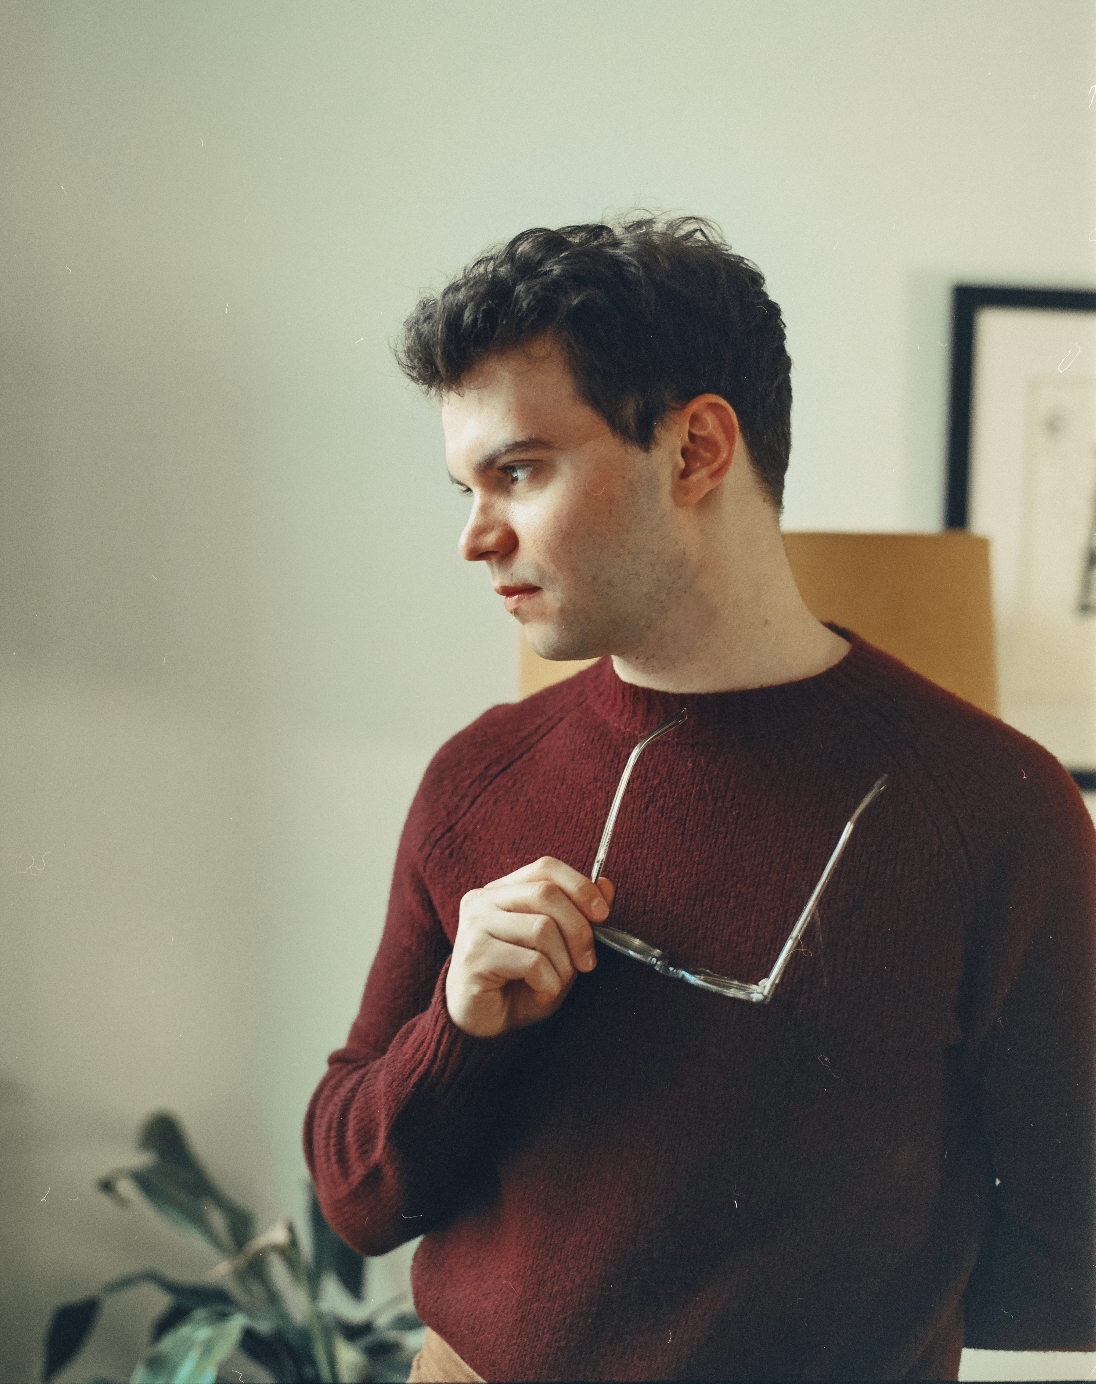
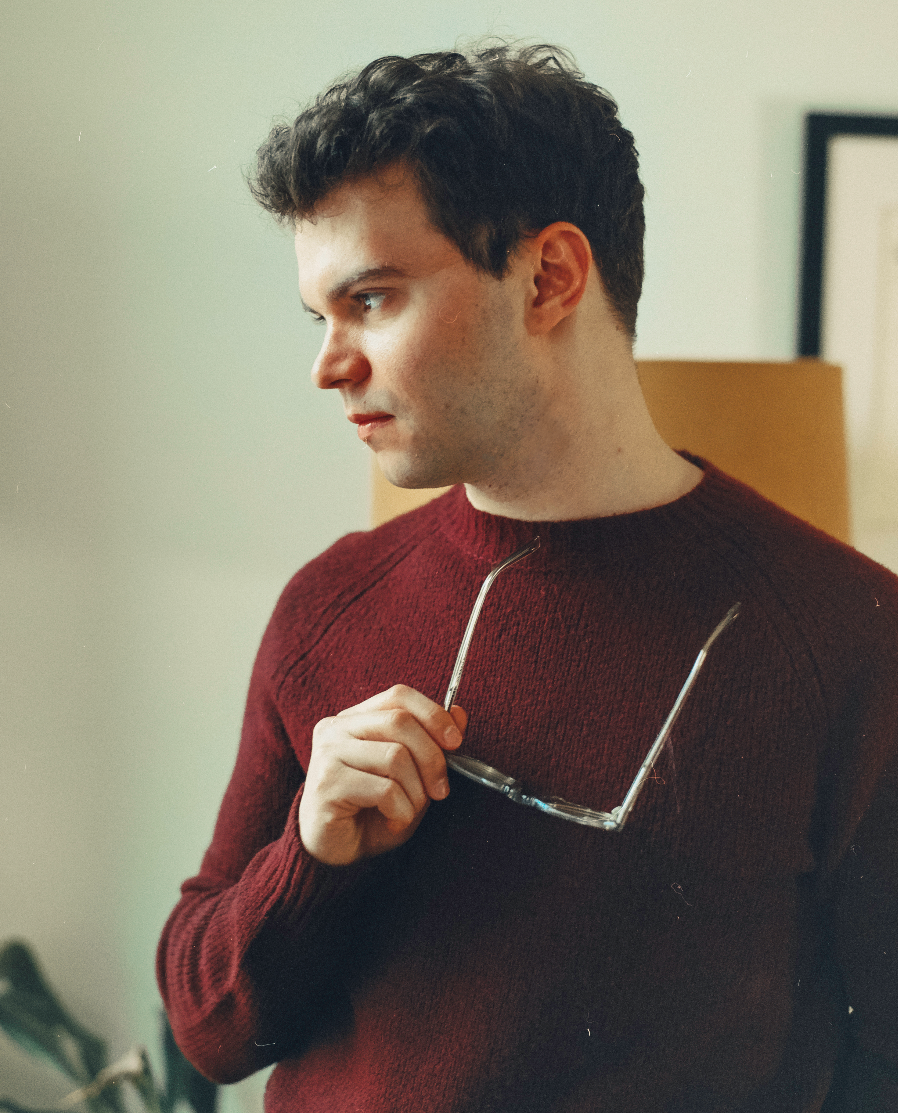
Add mobile styling.

diff --git a/article-list.js b/article-list.js
@@ -35,6 +35,7 @@ articles = [
     {
         link: "https://www.vanityfair.com/style/2018/09/jane-anderson-glenn-close-mother-of-the-maid",
         title: "The Writer Behind Both of Glenn Close’s “Breathtaking” Performances This Year",
+        imageAlign: 'left',
         imageLink: "https://media.vanityfair.com/photos/5baa6a7dd23564139e45cd09/master/w_2560%2Cc_limit/Embed-Jane-Anderson-Glenn-Close.png",
         outlet: "Vanity Fair",
         category: "Film",
@@ -59,6 +60,7 @@ articles = [
     {
         link: "https://www.them.us/story/three-tv-actors-who-queered-masculinity-sex-and-the-city-girls-friends",
         title: "Remembering Three TV Actors Who Queered Masculinity",
+        imageAlign: 'left',
         imageLink: "https://media.them.us/photos/619c033f7a8211c3e6797f17/master/w_2560%2Cc_limit/tv-gay.jpg",
         outlet: "them",
         category: "TV",
@@ -146,7 +148,7 @@ articles = [
     },
     {
         link: "https://www.them.us/story/the-queer-internet-and-my-church",
-        title: `You Are Very Welcome Here": The Queer Internet, and My Church`,
+        title: `"You Are Very Welcome Here": The Queer Internet, and My Church`,
         imageLink: "https://media.them.us/photos/5ec6d6e7d00096d0eb324157/master/w_2560%2Cc_limit/queer-internet-church.jpg",
         outlet: "them",
         category: "Faith",
@@ -172,43 +174,43 @@ articles = [
 ]
 
 outletLogos = {
-    "American Theater": "american-theatre.bmp",
-    "Backstage": "backstage.png",
-    "Boston College": "boston-college-magazine.png",
-    "The Brooklyn Rail": "brooklyn-rail.png",
-    "Brooklyn Magazine": "brooklyn-magazine.svg",
-    "Culture Bot": "culturebot-maximum-performance.png",
-    "EDGE": "edge-media-network.png",
-    "Greenpointers": "greenpointers.png",
-    "HowlRound": "howlround-theatre-commons.svg",
-    "Holy Cross": "college-of-the-holy-cross.png",
-    "Into": "into.png",
-    "NewNowNext": "newnownext.jpg",
-    "Observer": "observer.png",
-    "Playbill": "playbill.png",
-    "them": "them.png",
-    "Travel and Leisure": "travel-and-leisure.png",
-    "Vanity Fair": "vanity-fair.png",
     "The Washington Post": "washington-post.png",
+    "Observer": "observer.png",
+    "Backstage": "backstage.png",
+    "Brooklyn Magazine": "brooklyn-magazine.svg",
+    "HowlRound": "howlround-theatre-commons.svg",
+    "NewNowNext": "newnownext.jpg",
+    "Vanity Fair": "vanity-fair.png",
+    "them": "them.png",
+    "The Brooklyn Rail": "brooklyn-rail.png",
+    "Boston College": "boston-college-magazine.png",
+    "Into": "into.png",
+    "Holy Cross": "college-of-the-holy-cross.png",
+    "Travel and Leisure": "travel-and-leisure.png",
+    "American Theater": "american-theatre.bmp",
+    "Playbill": "playbill.png",
+    "EDGE": "edge-media-network.png",
+    "Culture Bot": "culturebot-maximum-performance.png",
+    "Greenpointers": "greenpointers.png",
 }
 
 outletFeaturedArticles = {
-    "American Theater": "https://www.americantheatre.org/byline/billy-mcentee/",
-    "Backstage": "https://www.backstage.com/magazine/article/acting-schools-coronavirus-zoom-remote-digital-70378/",
-    "Boston College": "https://www.bc.edu/bc-web/bcnews/campus-community/alumni/curtain-call--eagles-on-broadway.html",
-    "The Brooklyn Rail": "https://brooklynrail.org/contributor/Billy-McEntee",
-    "Brooklyn Magazine": "https://www.bkmag.com/2016/10/11/brooklyn-born-playwright-jordan-seavey-gives-spotlight-homos/",
-    "Culture Bot": "https://www.culturebot.org/author/billy-mcentee/",
-    "EDGE": "https://www.edgemedianetwork.com/story.php?ch=style&sc=grooming&sc2=&id=302203",
-    "Greenpointers": "https://greenpointers.com/author/williamm/",
-    "HowlRound": "https://howlround.com/commons/billy-mcentee",
-    "Holy Cross": "https://news.holycross.edu/blog/2019/07/29/theater-in-a-contentious-age-holy-cross-alumnus-uses-theater-to-tackle-contemporary-questions/",
-    "Into": "https://www.intomore.com/gaming/can-match-thirst-trap-caption/",
-    "NewNowNext": "http://www.newnownext.com/author/mcenteeb/",
-    "Observer": "https://observer.com/author/billy-mcentee/",
-    "Playbill": "https://playbill.com/article/tony-award-winner-kelli-ohara-completes-the-2021-new-york-city-marathon",
-    "them": "https://www.them.us/contributor/billy-mcentee",
-    "Travel and Leisure": "https://www.travelandleisure.com/trip-ideas/colorado-ghost-town-instagram-tourists-wine-scene",
-    "Vanity Fair": "https://www.vanityfair.com/contributor/billy-mcentee",
     "The Washington Post": "https://www.washingtonpost.com/entertainment/junebug-is-still-defined-by-its-north-south-divisions-and--now-more-than-ever--the-compassion-that-transcends-them/2020/08/12/5947c5d6-d727-11ea-930e-d88518c57dcc_story.html",
+    "Observer": "https://observer.com/author/billy-mcentee/",
+    "Backstage": "https://www.backstage.com/magazine/article/acting-schools-coronavirus-zoom-remote-digital-70378/",
+    "Brooklyn Magazine": "https://www.bkmag.com/2016/10/11/brooklyn-born-playwright-jordan-seavey-gives-spotlight-homos/",
+    "HowlRound": "https://howlround.com/commons/billy-mcentee",
+    "NewNowNext": "http://www.newnownext.com/author/mcenteeb/",
+    "Vanity Fair": "https://www.vanityfair.com/contributor/billy-mcentee",
+    "them": "https://www.them.us/contributor/billy-mcentee",
+    "The Brooklyn Rail": "https://brooklynrail.org/contributor/Billy-McEntee",
+    "Boston College": "https://www.bc.edu/bc-web/bcnews/campus-community/alumni/curtain-call--eagles-on-broadway.html",
+    "Into": "https://www.intomore.com/gaming/can-match-thirst-trap-caption/",
+    "Holy Cross": "https://news.holycross.edu/blog/2019/07/29/theater-in-a-contentious-age-holy-cross-alumnus-uses-theater-to-tackle-contemporary-questions/",
+    "Travel and Leisure": "https://www.travelandleisure.com/trip-ideas/colorado-ghost-town-instagram-tourists-wine-scene",
+    "American Theater": "https://www.americantheatre.org/byline/billy-mcentee/",
+    "Playbill": "https://playbill.com/article/tony-award-winner-kelli-ohara-completes-the-2021-new-york-city-marathon",
+    "EDGE": "https://www.edgemedianetwork.com/story.php?ch=style&sc=grooming&sc2=&id=302203",
+    "Culture Bot": "https://www.culturebot.org/author/billy-mcentee/",
+    "Greenpointers": "https://greenpointers.com/author/williamm/",
 }

diff --git a/style.css b/style.css
@@ -60,33 +60,6 @@ img {
     display: none;
 }
 
-@media screen and (max-width: 940px) {
-    .page-list {
-        display: none;
-    }
-
-    .mobile-list-expander {
-        cursor: pointer;
-        padding: 20px 30px 20px 30px;
-        display: flex;
-    }
-
-    .mobile-page-list {
-        list-style: none;
-        background: #fff;
-        display: flex;
-        flex-direction: column;
-        position: fixed;
-        padding: 0 20px 0 0;
-        right: 0;
-        top: 45px;
-    }
-
-    .closed {
-        display: none;
-    }
-}
-
 .page-list-item {
     cursor: pointer;
     padding: 20px;
@@ -161,6 +134,7 @@ img {
 
 .brand-logo > img {
     height: 150px;
+    max-width: 85%;
     object-fit: contain;
     width: 350px;
 }
@@ -234,7 +208,16 @@ img {
 .content-image {
     height: 300px;
     object-fit: cover;
+    object-position: center;
     width: 300px;
+}
+
+.left-align-content-image {
+    object-position: left;
+}
+
+.right-align-content-image {
+    object-position: right;
 }
 
 .item-title {
@@ -298,4 +281,107 @@ img {
 
 .awards-and-press-list > .content-list-item > div {
     padding: 5px;
+}
+
+@media screen and (max-width: 940px) {
+    .page-list {
+        display: none;
+    }
+
+    .mobile-list-expander {
+        cursor: pointer;
+        font-size: 2em;
+        padding: 20px 30px 20px 30px;
+        display: flex;
+    }
+
+    .mobile-page-list {
+        list-style: none;
+        background: #fff;
+        display: flex;
+        flex-direction: column;
+        font-size: 1.5em;
+        position: fixed;
+        padding: 0 20px 0 0;
+        right: 0;
+        top: 60px;
+        width: 90%;
+        z-index: 1;
+    }
+
+    .closed {
+        display: none;
+    }
+
+    .header-bar {
+        border-bottom: 2px solid #ced;
+    }
+
+    .page {
+        margin-top: 85px;
+    }
+
+    .page-content-list {
+        padding: 0;
+    }
+
+    .page-content, .scripts-section {
+        flex-direction: column;
+        justify-content: center;
+        align-items: center;
+    }
+
+    .page-content {
+        margin-left: 16px;
+        margin-right: 16px;
+    }
+
+    .page-description, .scripts-text {
+        padding: 0;
+    }
+
+    .category-header {
+        border-top: 2px solid #ced;
+    }
+
+    .scripts-text {
+        margin-bottom: 10px;
+        margin-top: 10px;
+    }
+
+    .page-image, .page-description, .scripts-image, .scripts-text {
+        width: 100%;
+    }
+
+    .option-tabs {
+        font-size: 1.35em;
+        justify-content: center;
+        margin-left: 10px;
+        margin-right: 10px;
+        margin-top: 5px;
+    }
+
+    .float-box {
+        align-self: center;
+        padding: 30px;
+        top: 20%;
+        transition: 1s;
+        width: 80%;
+    }
+
+    .social-link > img {
+        width: 100px;
+    }
+
+    .button-tray {
+        flex-direction: column;
+    }
+
+    .clickable {
+        font-size: 1.2em;
+        margin-right: 10px;
+        margin-bottom: 10px;
+        padding: 25px 10px 25px 10px;
+        text-align: center;
+    }
 }

diff --git a/index.html b/index.html
@@ -74,9 +74,9 @@
               <div class='page-description'>
                   Billy McEntee is a Brooklyn-based writer.
                   <br><br>
-                  As an arts journalist and critic, he’s written for The Washington Post, Vanity Fair, Travel + Leisure, American Theatre, them, and Observer, amongst others. He’s also the Theater Editor at The Brooklyn Rail, where he initiated the free, independent paper’s Rail Shorts series: published short works by playwrights.
+                  As an arts journalist and critic, he’s written for <em>The Washington Post</em>, <em>Vanity Fair</em>, <em>Travel + Leisure</em>, <em>American Theatre</em>, <em>them</em>, and <em>Observer</em>, amongst others. He’s also the Theater Editor at <em>The Brooklyn Rail</em>, where he initiated the free, independent paper’s Rail Shorts series: published short works by playwrights.
                   <br><br>
-                  As an artist, he wrote the play Cory and Smin’s Love Conquers the Earth (featured in Time Out New York and recipient of the Queens Arts Council grant) and the short film Lindsay Lindsey Lyndsey (honors from Santa Barbara International Screenplay Awards, LGBTQ Unbordered International Film Festival, and others).
+                  As an artist, he wrote the play <em>Cory and Smin’s Love Conquers the Earth</em> (featured in <em>Time Out New York</em> and recipient of the Queens Arts Council grant) and the short film <em>Lindsay Lindsey Lyndsey</em> (honors from Santa Barbara International Screenplay Awards, LGBTQ Unbordered International Film Festival, and others).
                   <br><br>
                   Billy has taught with The School of The New York Times, co-hosts the food and cultural podcast “Lasagna Time with Billy and Kyle,” and was a Fellow at the 2018 National Critics Institute at the Eugene O’Neill Theater Center. Billy graduated from Boston College and loves all things Amy Adams, Kazuo Ishiguro, and New Jersey.
                   <br>
@@ -209,9 +209,11 @@
           <div class='page-content'>
               <img class='page-image' src='images/about-photo-2.jpg' alt='Billy McEntee'>
               <div class='page-description'>
-                  Billy is a freelance writer available for hire. He writes criticism, company’s blogs and website copy, and queer scripts.
+                  Billy is a freelance writer available for hire. He writes criticism, company blogs and website copy, and queer scripts.
                   <br><br>
                   Get in touch at williamjude92 [at] gmail [dot] com.
+                  <br>
+                  All photos by Jake White.
                   <br>
                   <br>
                   <a class='social-link' href='https://twitter.com/wjmcentee'><img src='images/twitter-icon.svg' alt='twitter logo'></a>

diff --git a/page-script.js b/page-script.js
@@ -111,6 +111,9 @@ let setupArtsJournalismSection = (organizeBy) => {
                 element.href = article.link
                 let image = document.createElement('img')
                 image.className = 'content-image'
+                if (article.imageAlign) {
+                    image.classList.add(`${article.imageAlign}-align-content-image`)
+                }
                 image.src = article.imageLink
                 element.appendChild(image)
                 let title = document.createElement('div')
